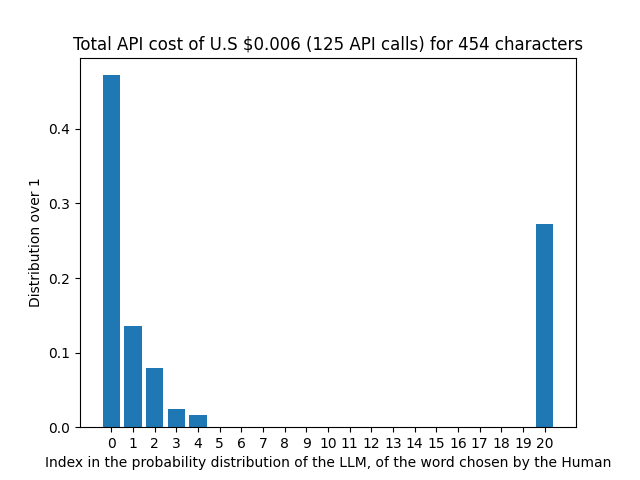
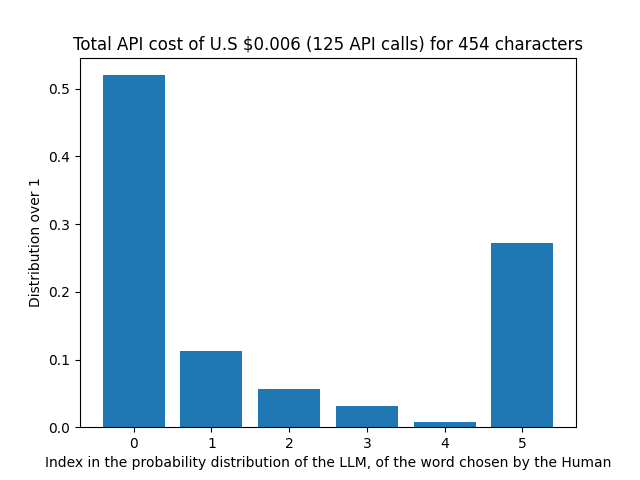
include more examples

diff --git a/prototype.py b/prototype.py
@@ -36,7 +36,7 @@ def main():
 
     # We only consider a probability distributions corresponding to the number of
     # specified Frequency Bins, and we include a bin in case the token is not found
-    word_selection_distribution = [0] * config.frequency_bins
+    word_selection_distribution = [0] * (config.frequency_bins + 1)
 
     # For all tokens in the document
     for i in tqdm(range(1, len(raw_tokens))):
@@ -53,7 +53,7 @@ def main():
         # Prompt changes based on Judge Model type (foundational or chat finetuned)
         if config.model_id in ["davinci-002", "babbage-002"]:
             next_word_log_probs = send_prompt_completion(client, config, input_prompt)
-        elif config.model_id in ["gpt-3.5-turbo-1106"]:
+        elif config.model_id in ["gpt-3.5-turbo-1106", "gpt-4o"]:
             next_word_log_probs = send_prompt_chat_completion(
                 client, config, input_prompt
             )

diff --git a/utils.py b/utils.py
@@ -97,8 +97,8 @@ def parse_args():
         "model_id",
         metavar="open_ai_model_id",
         type=str,
-        choices=["davinci-002", "babbage-002", "gpt-3.5-turbo-1106"],
-        help="The ID of the judge LLM, as specified by the OPEN AI API documentation: https://platform.openai.com/docs/models. Supported models are 'davinci-002' and 'baggage'.",
+        choices=["davinci-002", "babbage-002", "gpt-4o", "gpt-3.5-turbo-1106"],
+        help="The ID of the judge LLM, as specified by the OPEN AI API documentation: https://platform.openai.com/docs/models. Supported models are 'davinci-002', 'babbage-002' 'gpt-4o' and 'gpt-3.5-turbo-1106'.",
     )
     parser.add_argument(
         "context_window",

diff --git a/README.md b/README.md
@@ -35,7 +35,7 @@ positional arguments:
   input_file_name   Path to the input text file.
   open_ai_model_id  The ID of the judge LLM, as specified by the OPEN AI API documentation:
                     https://platform.openai.com/docs/models. Supported models are
-                    'davinci-002' and 'baggage'.
+                    'davinci-002', 'babbage-002' and 'gpt-3.5-turbo-1106'.
   context_window    The context window size (an integer). Defaults to 10.
   frequency_bins    The number of bins to consider in the frequency distribution. Defaults to
                     20.
@@ -49,6 +49,8 @@ options:
 Based on the use of different Judge LLMs.
 
 ### Using ```davinci-002```
+
+We select 5 freqency bins as it corresponds to the size of the log probability rankings obtain by the Open AI API for the davinci-002 model.
 
 Short human-generated text (```./data/human-input-small.txt```):
 
@@ -68,6 +70,8 @@ Short human-generated text (```./data/human-input-small.txt```):
 
 ### Using ```gpt3.5-turbo-1106```
 
+We select 20 freqency bins as it corresponds to the size of the log probability rankings obtain by the Open AI API for the gpt3.5 model.
+
 Short human-generated text (```./data/human-input-small.txt```):
 
 ![](results_gpt-3.5-turbo-1106/plot_human_input-small.png)
@@ -83,6 +87,15 @@ Short human-generated text (```./data/human-input-small.txt```):
 - Davinci-002 generated text ( ```./data/davinci-002-input.txt```):
 
 ![](results_gpt-3.5-turbo-1106/plot_davinci-002_input.png)
+
+### Using ```gpt4o```
+
+We select 20 freqency bins as it corresponds to the size of the log probability rankings obtain by the Open AI API for the gpt-4o model.
+
+- GPT-4o generated text ( ```./data/gpt4o-input.txt```):
+
+![](results_gpt-4o/plot_gpt4o_input.png)
+
 
 ## Cost Analysis
 
